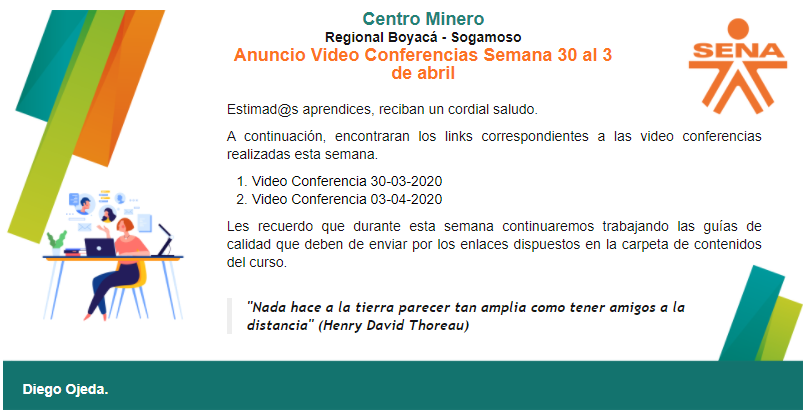
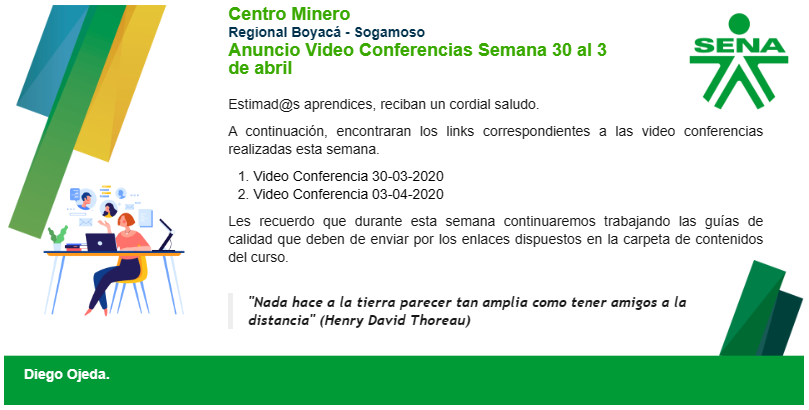
Anuncios 01 y 03 Finales

diff --git a/anuncios/Anuncio03.html b/anuncios/Anuncio03.html
@@ -1,42 +1,46 @@
 <style type="text/css">
-    div .backgroundT3 {
+    div .backgroundT3_2023 {
         background: url(https://daom-assets.github.io/anuncios/img/Background_03_Short_2023.png) no-repeat;
         background-size: contain;
         height: 400px;
         width: 800px;
     }
     
-    div .imgT3 {
+    .TopT3_2023{
+        margin-top: 12px;
+    }
+
+    div .imgT3_2023 {
         text-align: left;
         vertical-align: top;
     }
     
-    div .imgT3 img {
+    div .imgT3_2023 img {
         width: 180px;
         height: 180px;
     }
     
-    .fraseT3 {
+    .fraseT3_2023 {
         font-family: Trebuchet MS, Helvetica, sans-serif;
     }
     
-    .firmaT3 {
+    .firmaT3_2023 {
         font-size: 20px;
         color: #ffffff;
         font-family: Brush Script MT, cursive;
     }
     
-    div .contentT3 {
+    div .contentT3_2023 {
         text-align: justify;
         vertical-align: top;
-        padding-right: 10px;
+        padding-right: 11px;
     }
     
     .textoBlanco {
         color: #ffffff;
     }
     
-    .textoVerde{
+    .textoVerde_2023{
         color:#39A900;
     }
     
@@ -55,41 +59,39 @@
         font-size: 14px;
     }
     
-    div .colImgT3 {
+    div .colImgT3_2023 {
         position: relative;
         height: 290px
     }
     
-    div .bottomT3 {
+    div .bottomT3_2023 {
         position: absolute;
         bottom: 0;
         left: 0;
     }
 </style>
-<div class="backgroundT3 container-fluid">
+<div class="backgroundT3_2023 container-fluid">
     <div class="row-fluid">
-        <div class="span12 text-center">&nbsp;</div>
+        <div class="TopT3_2023 span12 text-center">&nbsp;</div>
     </div>
 
     <div class="row-fluid">
-        <div class="span3 colImgT3">
+        <div class="span3 colImgT3_2023">
 
-            <div class="row-fluid bottomT3">
-                <div class="span12 imgT3"><img src="https://archivos.territorio.la/archivos/clases/3692685___555ea9599798fc6___.png" /></div>
+            <div class="row-fluid bottomT3_2023">
+                <div class="span12 imgT3_2023"><img src="https://archivos.territorio.la/archivos/clases/3692685___555ea9599798fc6___.png" /></div>
             </div>
         </div>
 
         <div class="span9">
             <div class="row-fluid">
                 <div class="span8 text-center">
-                    <br />
-                    <strong class="textoVerde tituloMedium">Centro Minero </strong>
-                    <br />
-                    <strong class="textoAzulOscuro tituloMedium">Anuncio Video Conferencias Semana 30 al 3 de abril</strong></div>
+                    <strong class="textoVerde_2023 tituloMedium">Centro Minero </strong> <br/>
+                    <strong class="textoVerde_2023 tituloMedium">Anuncio Video Conferencias Semana 30 al 3 de abril</strong>                    
             </div>
 
             <div class="row-fluid">
-                <div class="contentT3 span11 text-center">&nbsp;
+                <div class="contentT3_2023 span11 text-center">&nbsp;
                     <p>Estimad@s aprendices, reciban un cordial saludo.</p>
 
                     <p>A continuaci&oacute;n, encontraran los links correspondientes a las video conferencias realizadas esta semana.&nbsp;</p>
@@ -104,7 +106,7 @@
             </div>
 
             <div class="row-fluid">
-                <div class="span11 text-left fraseT3">&nbsp;
+                <div class="span11 text-left fraseT3_2023">&nbsp;
                     <blockquote><strong><em><span>&quot;Nada hace a la tierra parecer tan amplia como tener amigos a la distancia&quot; (Henry David Thoreau)</span></em> </strong></blockquote>
                 </div>
             </div>
@@ -112,6 +114,7 @@
     </div>
 
     <div class="row-fluid text-center">
+        
         <h4><span class="textoBlanco ">Servicio Nacional de Aprendizaje, SENA - Regional Boyac&aacute; - Sogamoso</span></h4>
     </div>
 </div>

diff --git a/anuncios/Anuncio01.html b/anuncios/Anuncio01.html
@@ -1,34 +1,33 @@
 <style type="text/css">
-
-div .backgroundT1 {
+div .backgroundT1_2023 {
     background: url(https://daom-assets.github.io/anuncios/img/Background_01_2023.png) no-repeat;
     background-size: contain;
     height: 400px;
     width:800px;
 }
 
-div .imgT1{
+div .imgT1_2023{
     text-align:left;
     vertical-align: top;
 }
 
-div .imgT1 img{
-    width: 180px; 
+div .imgT1_2023 img{
+    width: 180px;
     height: 180px;
 }
 
-.fraseT1{
+.fraseT1_2023{
     font-family:Trebuchet MS,Helvetica,sans-serif;
 }
 
-.firmaT1{
+.firmaT1_2023{
     font-size:20px;
     color:#ffffff;
     font-family: Brush Script MT,cursive;
 }
 
 
-div .contentT1 {
+div .contentT1_2023 {
     text-align: justify;
     vertical-align: top;
     padding-right:10px;
@@ -38,7 +37,7 @@ div .contentT1 {
     color:#ffffff;
 }
 
-.textoVerde{
+.textoVerde_2023{
     color:#39A900;
 }
 
@@ -57,36 +56,36 @@ blockquote {
     font-size: 14px;
 }
 
-div .colImgT1 {
+div .colImgT1_2023 {
     position: relative;
     height: 330px
 }
 
-div .bottomT1 {
+div .bottomT1_2023 {
     position: absolute;
     bottom: 0;
     left: 0;
 }
 </style>
-<div class="backgroundT1 container-fluid">
+<div class="backgroundT1_2023 container-fluid">
     <div class="row-fluid">
-        <div class="span3 colImgT1">
-            <div class="row-fluid bottomT1">
-                <div class="span12 imgT1"><img src="https://archivos.territorio.la/archivos/clases/3692685___555ea9599798fc6___.png" /></div>
+        <div class="span3 colImgT1_2023">
+            <div class="row-fluid bottomT1_2023">
+                <div class="span12 imgT1_2023"><img src="https://archivos.territorio.la/archivos/clases/3692685___555ea9599798fc6___.png" /></div>
             </div>
         </div>
 
         <div class="span9">
             <div class="row-fluid">
                 <div class="span8 text-center">
-                    <strong class="textoVerde tituloMedium">Centro Minero </strong> <br/>
-                    <strong>Regional Boyac&aacute; - Sogamoso</strong><br />
-                    <strong class="textoAzulOscuro tituloMedium">Anuncio Video Conferencias Semana 30 al 3 de abril</strong>
+                    <strong class="textoVerde_2023 tituloMedium">Centro Minero </strong> <br/>
+                    <strong class="textoAzulOscuro">Regional Boyac&aacute; - Sogamoso</strong><br />
+                    <strong class="textoVerde_2023 tituloMedium">Anuncio Video Conferencias Semana 30 al 3 de abril</strong>
                 </div>
             </div>
 
             <div class="row-fluid">
-                <div class="contentT1 span11 text-center">
+                <div class="contentT1_2023 span11 text-center">
                     <br/>
                     <p>Estimad@s aprendices, reciban un cordial saludo.</p>
                     <p>A continuaci&oacute;n, encontraran los links correspondientes a las video conferencias realizadas esta semana.&nbsp;</p>
@@ -99,7 +98,7 @@ div .bottomT1 {
             </div>
 
             <div class="row-fluid">
-                <div class="span10 text-left fraseT1">
+                <div class="span10 text-left fraseT1_2023">
                     <br/>
                     <blockquote><strong><em><span>&quot;Nada hace a la tierra parecer tan amplia como tener amigos a la distancia&quot; (Henry David Thoreau)</span></em> </strong></blockquote>
                 </div>
@@ -107,7 +106,6 @@ div .bottomT1 {
 
         </div>
     </div>
-    <div class="row-fluid"><div class="span12 text-center">&nbsp;</div></div>
 
     <div class="row-fluid text-left">
         <h4><span class="textoBlanco divFirma">Diego Ojeda.</span></h4>
